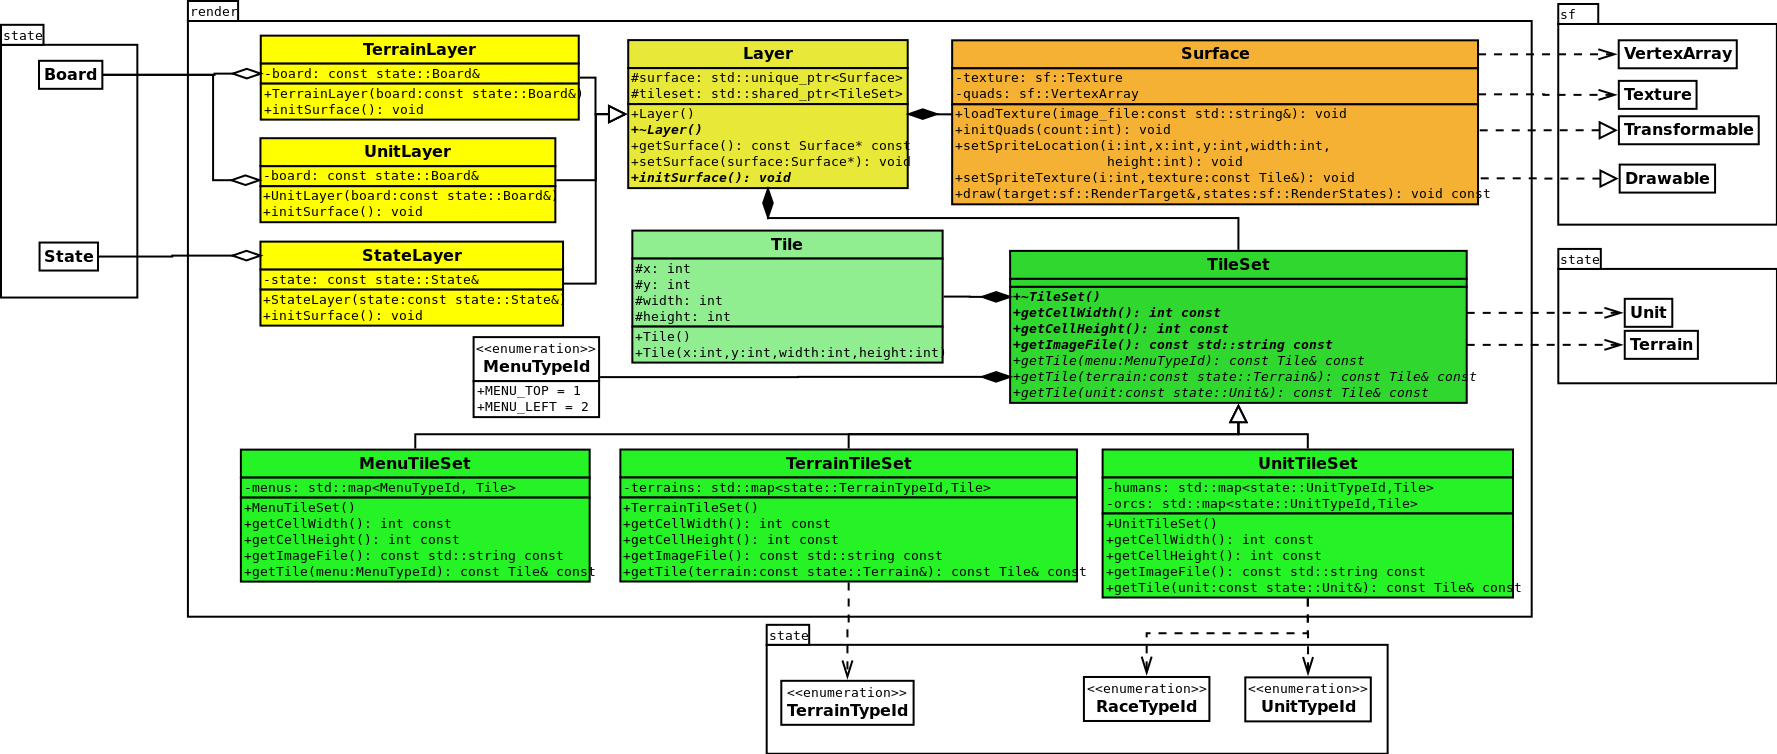
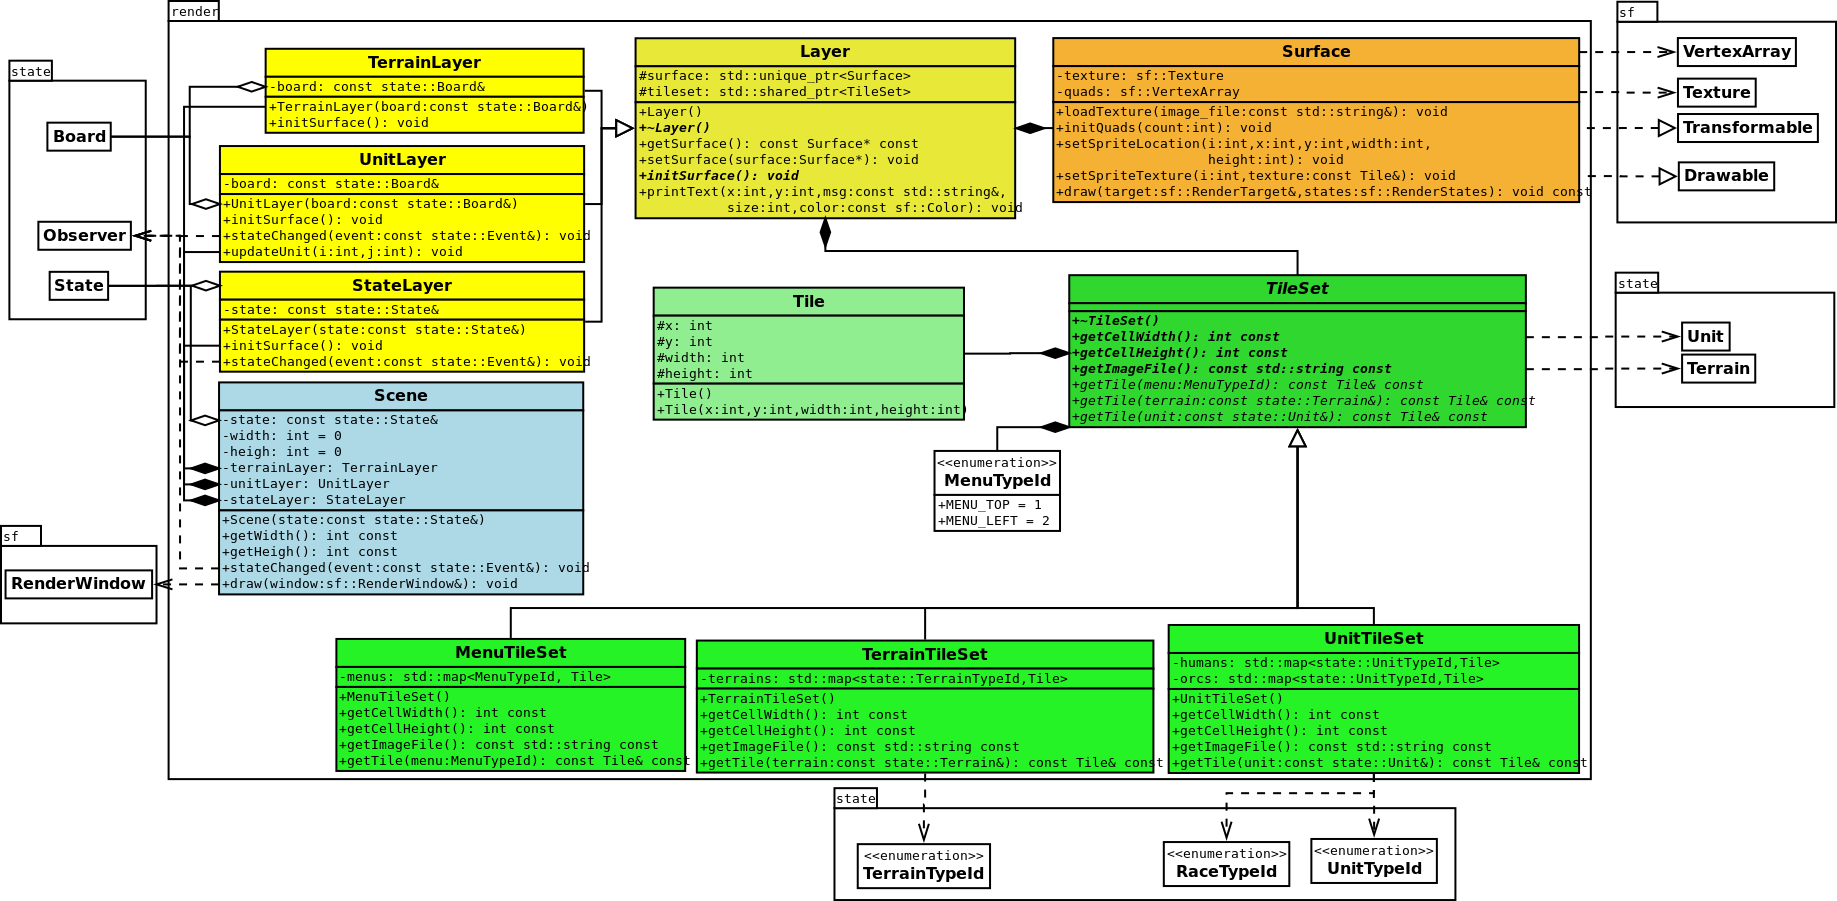
Change render.cpp to add scene

diff --git a/src/client/render.cpp b/src/client/render.cpp
@@ -18,13 +18,8 @@ namespace render {
         
         unit = new Leader(1, 2, 18, 6, RaceTypeId::ORC);
         state->getBoard().addUnit(unit);
-            
-
-        TerrainLayer* terrainLayer = new TerrainLayer(state->getBoard());
-        UnitLayer* unitLayer = new UnitLayer(state->getBoard());
-        StateLayer* stateLayer = new StateLayer(*state);
         
-        terrainLayer->initSurface();
+        Scene* scene = new Scene(*state);
 
         while (window.isOpen()) {
             sf::Event event;
@@ -32,13 +27,9 @@ namespace render {
                 if(event.type == sf::Event::Closed)
                     window.close();
             }
-
-            unitLayer->initSurface();       
-            stateLayer->initSurface();
-            window.clear();
-            window.draw(*(terrainLayer->getSurface()));
-            window.draw(*(unitLayer->getSurface()));
-            window.draw(*(stateLayer->getSurface()));
+            
+            //scene->stateChanged(event);
+            scene->draw(window);
             window.display();
         }
     }

diff --git a/src/client/render/Scene.h b/src/client/render/Scene.h
@@ -1,0 +1,52 @@
+// Generated by dia2code
+#ifndef RENDER__SCENE__H
+#define RENDER__SCENE__H
+
+#include <SFML/Graphics.hpp>
+
+namespace state {
+  class State;
+};
+namespace render {
+  class TerrainLayer;
+  class UnitLayer;
+  class StateLayer;
+};
+namespace sf {
+  class RenderWindow;
+};
+namespace state {
+  class Observer;
+}
+
+#include "TerrainLayer.h"
+#include "UnitLayer.h"
+#include "StateLayer.h"
+#include "state/Observer.h"
+
+namespace render {
+
+  /// class Scene - 
+  class Scene {
+    // Associations
+    // Attributes
+  private:
+    const state::State& state;
+    int width     = 0;
+    int heigh     = 0;
+    TerrainLayer terrainLayer;
+    UnitLayer unitLayer;
+    StateLayer stateLayer;
+    // Operations
+  public:
+    Scene (const state::State& state);
+    int getWidth () const;
+    int getHeigh () const;
+    void stateChanged (const state::Event& event);
+    void draw (sf::RenderWindow& window);
+    // Setters and Getters
+  };
+
+};
+
+#endif

diff --git a/src/client/render/Scene.cpp b/src/client/render/Scene.cpp
@@ -1,0 +1,30 @@
+#include "Scene.h"
+
+namespace render {
+
+    Scene::Scene(const state::State& state) : state(state), terrainLayer(state.getBoard()), unitLayer(state.getBoard()), stateLayer(state) {
+        terrainLayer.initSurface();
+        unitLayer.initSurface();       
+        stateLayer.initSurface();
+    }
+
+    void Scene::draw(sf::RenderWindow& window) {
+        window.clear();
+        window.draw(*(terrainLayer.getSurface()));       
+        window.draw(*(unitLayer.getSurface()));
+        window.draw(*(stateLayer.getSurface()));
+    }
+
+    int Scene::getHeigh() const {
+        return heigh;
+    }
+
+    int Scene::getWidth() const {
+        return width;
+    }
+
+    void Scene::stateChanged(const state::Event& event) {
+
+    }
+
+}

diff --git a/src/client/render.h b/src/client/render.h
@@ -10,7 +10,8 @@
 #include "render/MenuTileSet.h"
 #include "render/TerrainTileSet.h"
 #include "render/UnitTileSet.h"
-#include "render/StateLayer.h"
-#include "render/UnitLayer.h"
 #include "render/TerrainLayer.h"
+#include "render/UnitLayer.h"
+#include "render/Scene.h"
+#include "render/StateLayer.h"
 #endif
